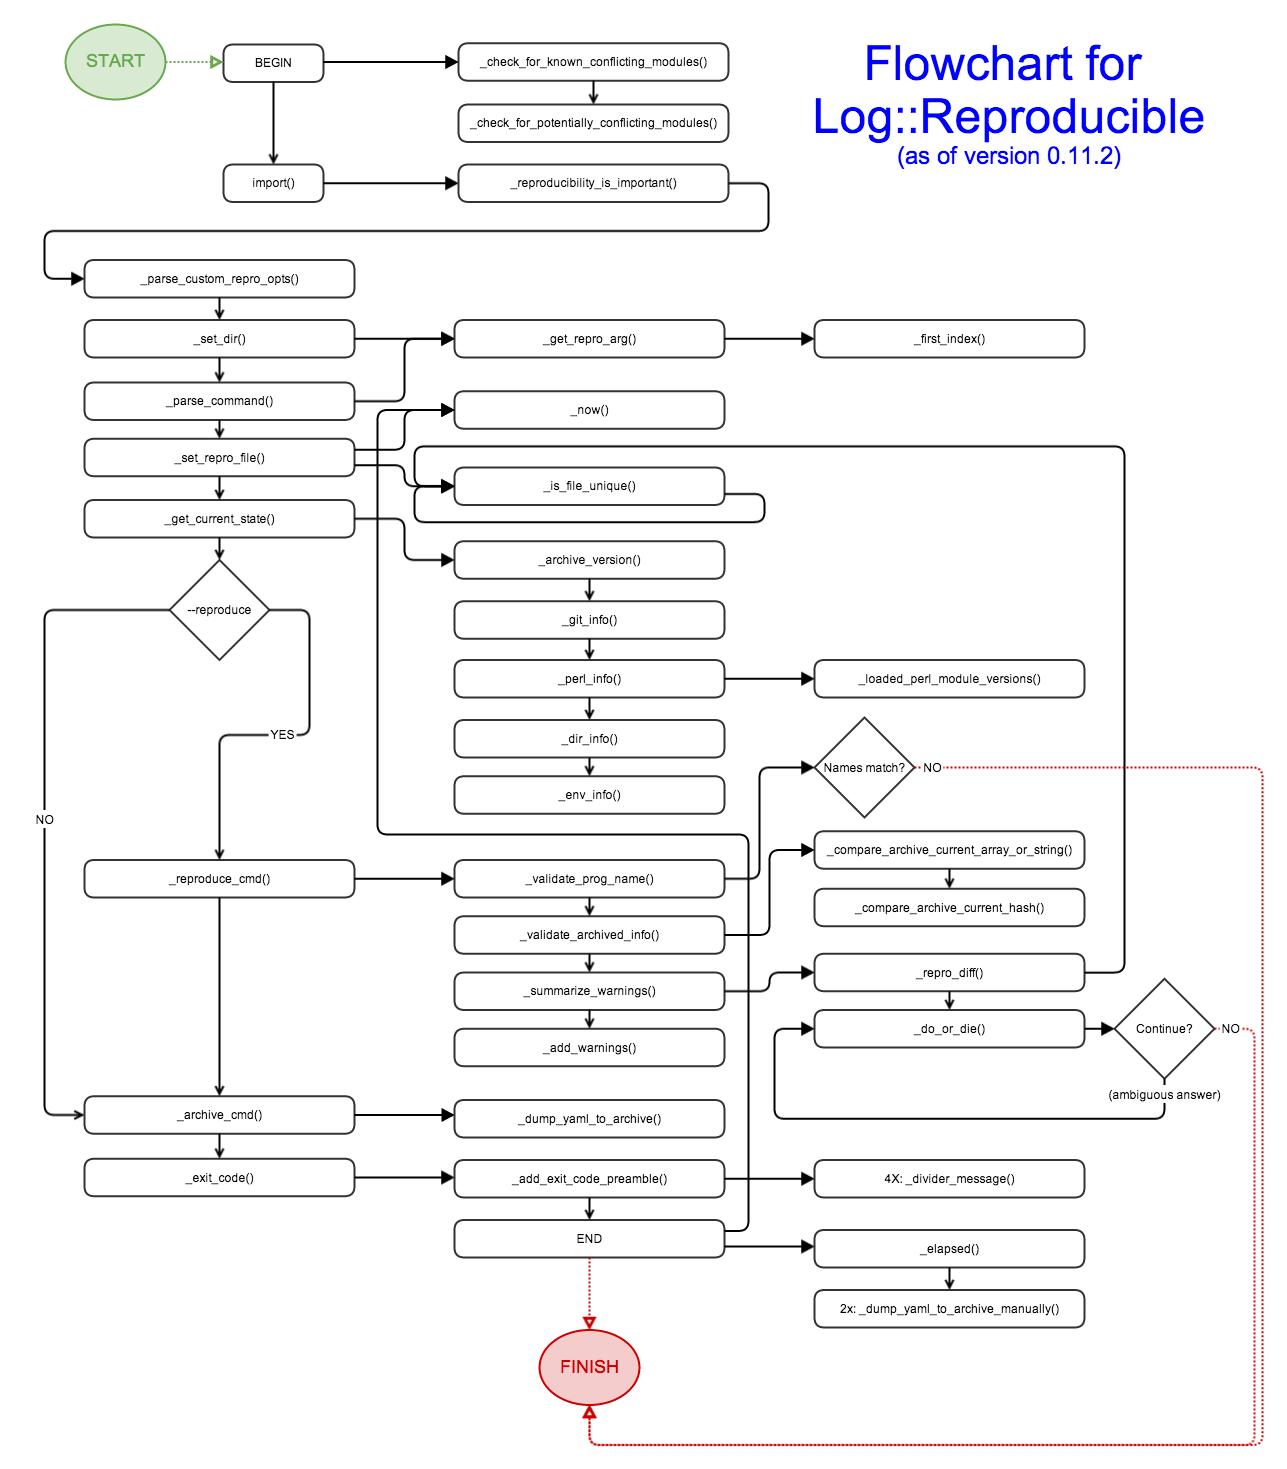
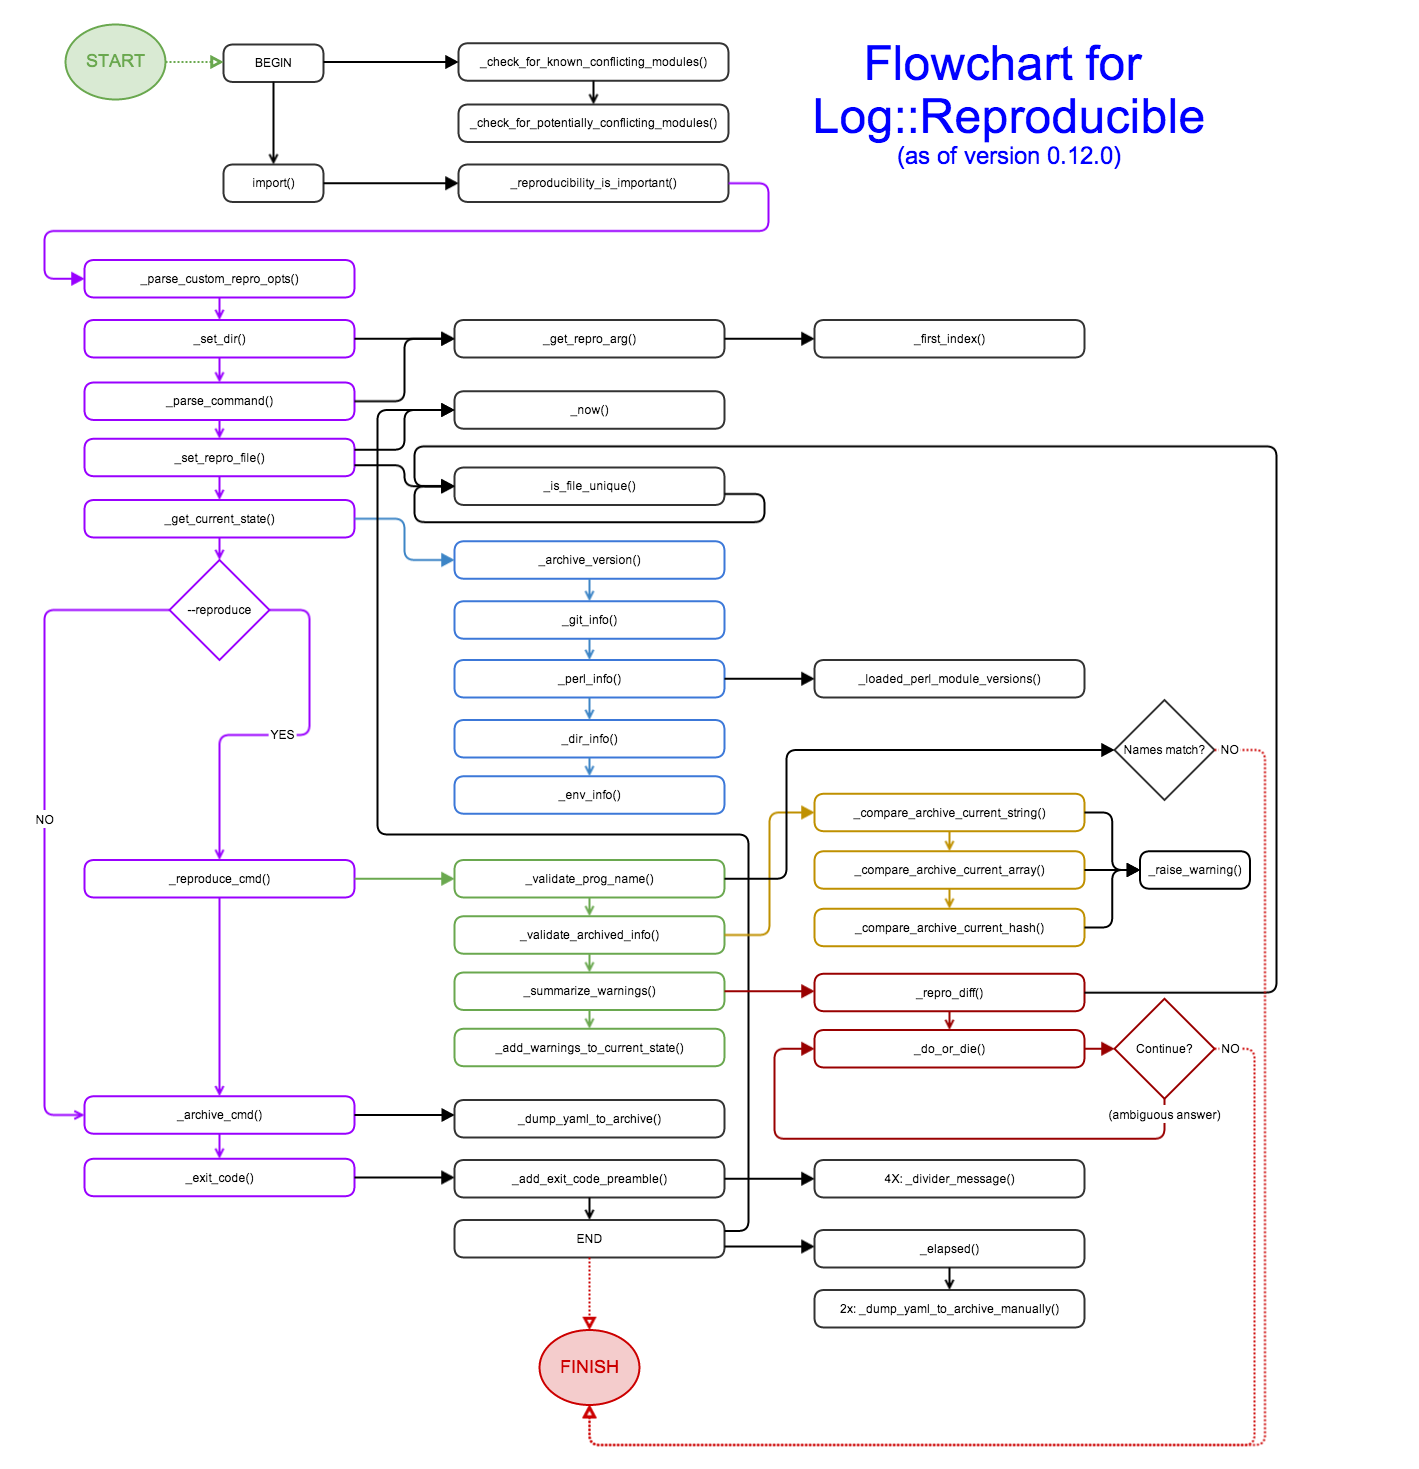
Update version #, changelog, and flowchart (P:8/8)

diff --git a/README.md b/README.md
@@ -1,4 +1,4 @@
-# Log::Reproducible (0.11.2)
+# Log::Reproducible (0.12.0)
 
 Increase your reproducibility with the Perl module Log::Reproducible. 
 
@@ -67,7 +67,7 @@ If it was run as `perl bin/sample.pl -a 1 -b 2 -c 3 OTHER ARGUMENTS`, the conten
     - SCRIPT DIR:
         ABSOLUTE: /path/to/working/dir/bin
         RELATIVE: bin
-    - ARCHIVE VERSION: Log::Reproducible 0.11.2
+    - ARCHIVE VERSION: Log::Reproducible 0.12.0
     - PERL:
         - VERSION: v5.20.0
         - PATH: /path/to/bin/perl
